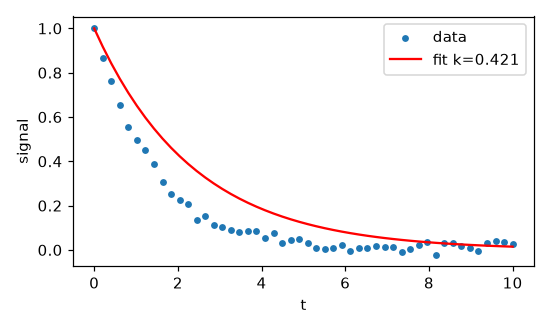
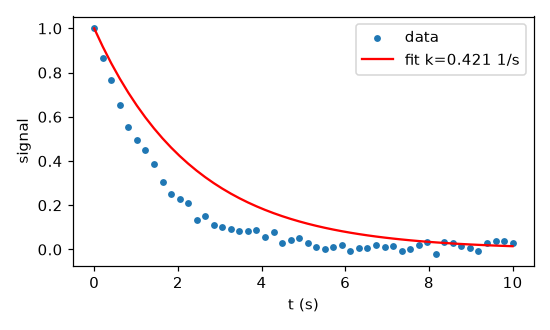
fix(fixtures): the demo capsule reports a unit, so its planted flaw is decidable (INT-STUDIUM-004)
`fixtures/capsule-judgment-demo` plants the flaw "la demi-vie depasse une heure" against a
real run of `fixtures/capsule-demo`. That run measured time on `np.linspace(0.0, 10.0, 50)`
with `xlabel("t")` and printed `LANDMARK k_fit=0.4212 half_life=1.6457` — no unit in the
script, the task card, the CSV or the landmark. 1.6457 of nothing neither confirms nor
refutes "more than an hour", so a learner who answered "you cannot tell without a unit" was
right and was graded wrong.

Worse, the authored reveal committed the same error it plants: "la demi-vie vaut ln2/k
(~1.65 unite de temps), pas une heure" — denying the hour while declining to say what the
1.65 was in.

The unit is fixed where the measurement is made: the capsule's axis is seconds, so k is in
s^-1, the half-life in s, `stats.csv` gains a `unit` column and the landmark carries both.
Nothing parses that CSV (every consumer checks existence only) and every pin on the landmark
is a `toContain`/regex on `k_fit=0.4212`, so no value moves — the capsule re-runs to the same
digits, and the regenerated fixtures differ in exactly 12 lines.

While rewording the reveal, "trois ordres de grandeur" accidentally matched flaw f3's keyword
`ordre` and bundle_lint reported that quarantine entry as stale — a false credit, since the
sentence says nothing about over-reading the noise. The reveal is now built one clause per
planted flaw instead of one fixed sentence that only ever corrected f1, so each of the three
[…]

diff --git a/tools/test_capsule_judgment_fixture.py b/tools/test_capsule_judgment_fixture.py
@@ -1,0 +1,80 @@
+"""INT-STUDIUM-004 — the capsule-grounded judgment fixture must plant a DECIDABLE flaw.
+
+`fixtures/capsule-judgment-demo` is generated by `tools/build_capsule_judgment_demo.py` from a
+real run of `fixtures/capsule-demo`. The planted flaw "la demi-vie depasse une heure" can only be
+scored if the run says what unit the half-life is in. The capsule's time axis was
+`np.linspace(0.0, 10.0, 50)` with `xlabel("t")` — dimensionless — so `half_life=1.6457` was a bare
+number, and the authored `model_correction` concluded "pas une heure" from it, which is the same
+category error the scene plants. A learner who answered "you cannot tell without a unit" was right
+and was graded wrong.
+
+The unit lives in ONE place, the capsule that measures it. These tests read the committed fixture
+(what a learner actually plays), not the generator, so a regeneration that drops the unit fails
+here.
+
+Run: .venv/bin/python -m pytest tools/test_capsule_judgment_fixture.py -q
+"""
+import json
+import os
+import re
+
+REPO = os.path.dirname(os.path.dirname(os.path.abspath(__file__)))
+BUNDLE = os.path.join(REPO, "fixtures", "capsule-judgment-demo", "lesson.json")
+SCENES = os.path.join(REPO, "fixtures", "capsule-judgment-demo", "scenes.json")
+CAPSULE_RUN = os.path.join(REPO, "fixtures", "capsule-demo", "scripts", "run.py")
+
+#: The half-life the demo capsule reports, and the largest value in seconds that is still not
+#: "more than an hour" — the comparison the planted flaw asks the learner to make.
+HALF_LIFE = 1.6457
+ONE_HOUR_S = 3600
+
+
+def _spot_scenes():
+    bundle = json.loads(open(BUNDLE, encoding="utf-8").read())
+    return [s for s in bundle["scenes"] if s.get("type") == "spot_the_flaw"]
+
+
+def test_the_capsule_declares_the_unit_of_its_time_axis():
+    """The unit is a property of the measurement, so it is fixed where the measurement is made."""
+    src = open(CAPSULE_RUN, encoding="utf-8").read()
+    assert "half_life={half_life:.4f} s" in src, "the landmark must carry the half-life's unit"
+    assert re.search(r'xlabel\("t \(s\)"\)', src), "the figure axis must name the unit too"
+
+
+def test_every_planted_demi_vie_flaw_is_decidable_against_the_landmark():
+    """`la demi-vie depasse une heure` is a flaw only if the landmark says 1.6457 SECONDS."""
+    scenes = _spot_scenes()
+    assert scenes, "the demo bundle must still carry its spot_the_flaw scenes"
+    for scene in scenes:
+        landmark = scene["reference_result"]["landmark"]
+        m = re.search(r"half_life=([0-9.]+)\s*(\S+)", landmark)
+        assert m, f"{scene['id']}: landmark states no half-life: {landmark!r}"
+        value, unit = float(m.group(1)), m.group(2)
+        assert unit == "s", f"{scene['id']}: half-life carries no unit ({landmark!r})"
+        assert value == HALF_LIFE and value < ONE_HOUR_S, (
+            f"{scene['id']}: {value} {unit} does not settle the planted claim"
+        )
+
+
+def test_the_model_correction_reasons_from_the_unit_it_now_has():
+    """The correction used to assert `pas une heure` about a dimensionless number. It may only
+    deny the hour by naming the unit that makes the denial true."""
+    for scene in _spot_scenes():
+        correction = scene["model_correction"]
+        if "heure" not in correction:
+            continue
+        assert "unite de temps" not in correction, (
+            f"{scene['id']}: the correction still hedges the unit it is concluding from"
+        )
+        assert re.search(r"1[.,]6\d*\s*s\b", correction), (
+            f"{scene['id']}: the correction denies the hour without naming seconds: {correction!r}"
+        )
+
+
+def test_the_two_generated_files_agree_on_the_landmark():
+    """`scenes.json` and `lesson.json` are written by the same run; a partial regeneration that
+    updated one and not the other would leave two different answer keys in the corpus."""
+    from_bundle = {s["id"]: s["reference_result"]["landmark"] for s in _spot_scenes()}
+    loose = json.loads(open(SCENES, encoding="utf-8").read())
+    from_scenes = {s["id"]: s["reference_result"]["landmark"] for s in loose}
+    assert from_bundle == from_scenes

diff --git a/tools/build_capsule_judgment_demo.py b/tools/build_capsule_judgment_demo.py
@@ -73,10 +73,17 @@ class _StubLLM:
         o = self._o
         lm = o["reference_run"]["landmark"]
         n = o["trustworthiness"]["n_flaws"]
+        # Each planted flaw carries the clause that CORRECTS it, so the reveal explains every
+        # flaw it planted and no more (INT-STUDIUM-004). Before, one fixed sentence corrected f1
+        # only, and bundle_lint quarantined f2/f3 as "never named in model_correction" — a reveal
+        # that leaves a planted flaw unexplained is an answer key the learner cannot learn from.
         pool = [
-            ("f1", "La demi-vie depasse une heure.", ["demi-vie", "unites"]),
-            ("f2", "k est un nombre sans dimension.", ["unites", "dimension"]),
-            ("f3", "Le bruit prouve une cinetique d ordre deux.", ["ordre", "sur-interpretation"]),
+            ("f1", "La demi-vie depasse une heure.", ["demi-vie", "unites"],
+             "la demi-vie vaut ln2/k = 1.65 s, dont les unites sont des secondes, tres loin d une heure"),
+            ("f2", "k est un nombre sans dimension.", ["unites", "dimension"],
+             "k n est pas sans dimension : ses unites sont s^-1, l inverse d un temps"),
+            ("f3", "Le bruit prouve une cinetique d ordre deux.", ["ordre", "sur-interpretation"],
+             "le bruit residuel ne prouve aucun ordre deux : c est une sur-interpretation du residu"),
         ][:n]
         scene = {
             "id": o["id"],
@@ -84,12 +91,16 @@ class _StubLLM:
             "title": o["title"],
             "concept_refs": o.get("concept_refs", []),
             "flawed_content": (
-                f"Lecture IA du resultat reel ({lm}). " + " ".join(t for _, t, _ in pool)
+                f"Lecture IA du resultat reel ({lm}). " + " ".join(t for _, t, _, _ in pool)
             ),
-            "claims": [{"id": i, "text": t, "flaws_expected": fe} for i, t, fe in pool],
+            "claims": [{"id": i, "text": t, "flaws_expected": fe} for i, t, fe, _ in pool],
+            # INT-STUDIUM-004: the reveal names the UNIT it concludes from. It used to read
+            # "~1.65 unite de temps, pas une heure" — denying the hour while declining to say
+            # what the 1.65 was in, which is the same category error the scene plants.
             "model_correction": (
-                f"Lecture correcte ancree sur {lm} : k est un taux (1/temps) ; "
-                "la demi-vie vaut ln2/k (~1.65 unite de temps), pas une heure."
+                f"Lecture correcte ancree sur {lm} : "
+                + " ; ".join(c for _, _, _, c in pool)
+                + "."
             ),
             "rubric": {"completeness": 0.6, "evidence_quality": 0.3, "tone": 0.1},
         }

diff --git a/fixtures/capsule-demo/scripts/run.py b/fixtures/capsule-demo/scripts/run.py
@@ -1,5 +1,12 @@
 """Light ASB-style capsule: fit a first-order decay rate from noisy data, emit a CSV + a figure.
-Pure compute + matplotlib; writes outputs/stats.csv and figures/decay.png; prints a LANDMARK line."""
+Pure compute + matplotlib; writes outputs/stats.csv and figures/decay.png; prints a LANDMARK line.
+
+UNITS (INT-STUDIUM-004): the time axis is in SECONDS, so k is in s^-1 and the half-life in s.
+The axis used to be a bare `t` and the landmark bare numbers, which made a downstream judgment
+scene unscorable: `fixtures/capsule-judgment-demo` plants the flaw "la demi-vie depasse une
+heure" against this run, and 1.6457 of an unnamed unit neither confirms nor refutes it. A capsule
+that reports a quantity reports the unit it measured it in.
+"""
 import csv
 import os
 
@@ -12,8 +19,8 @@ os.makedirs("outputs", exist_ok=True)
 os.makedirs("figures", exist_ok=True)
 
 rng = np.random.default_rng(0)
-t = np.linspace(0.0, 10.0, 50)
-k_true = 0.7
+t = np.linspace(0.0, 10.0, 50)  # seconds
+k_true = 0.7                    # s^-1
 y = np.exp(-k_true * t) + rng.normal(0.0, 0.02, t.size)
 
 mask = y > 0  # log-linear fit on positive samples
@@ -22,14 +29,14 @@ half_life = float(np.log(2) / k_fit)
 
 with open("outputs/stats.csv", "w", newline="") as f:
     w = csv.writer(f)
-    w.writerow(["metric", "value"])
-    w.writerow(["k_fit", round(k_fit, 4)])
-    w.writerow(["half_life", round(half_life, 4)])
+    w.writerow(["metric", "value", "unit"])
+    w.writerow(["k_fit", round(k_fit, 4), "s^-1"])
+    w.writerow(["half_life", round(half_life, 4), "s"])
 
 plt.figure(figsize=(5, 3))
 plt.scatter(t, y, s=12, label="data")
-plt.plot(t, np.exp(-k_fit * t), "r-", label=f"fit k={k_fit:.3f}")
-plt.xlabel("t"); plt.ylabel("signal"); plt.legend(); plt.tight_layout()
+plt.plot(t, np.exp(-k_fit * t), "r-", label=f"fit k={k_fit:.3f} 1/s")
+plt.xlabel("t (s)"); plt.ylabel("signal"); plt.legend(); plt.tight_layout()
 plt.savefig("figures/decay.png", dpi=110)
 
-print(f"LANDMARK k_fit={k_fit:.4f} half_life={half_life:.4f}")
+print(f"LANDMARK k_fit={k_fit:.4f} s^-1 half_life={half_life:.4f} s")

diff --git a/skills/studium-harness/SKILL.md b/skills/studium-harness/SKILL.md
@@ -30,8 +30,10 @@ running server is the authoritative tool surface.
 | Capsule runs | `python3` + `uv` for `tools/capsule_runner.py` (the operator demo) |
 
 Bundle refs available: `atomistique-l1/lesson.json` (validated L1 chemistry),
-`capsule-judgment-demo/lesson.json` (reproduction run + verdict deck),
-`capsule-run-demo/lesson.json`, `capsule-loop-demo/lesson.json`,
+`capsule-judgment-demo/lesson.json` (intro + two capsule-grounded `spot_the_flaw`
+audits, free-text — it carries no `reproduction` scene and no verdict deck),
+`capsule-run-demo/lesson.json` and `capsule-loop-demo/lesson.json` (the two that do
+carry a `reproduction` run),
 `m3/demo-metabolomics/lesson.json`; `m6/demo-atomistique/lesson.json` fails schema
 parse and is quarantined in the bundle lint — do not use it.
 
